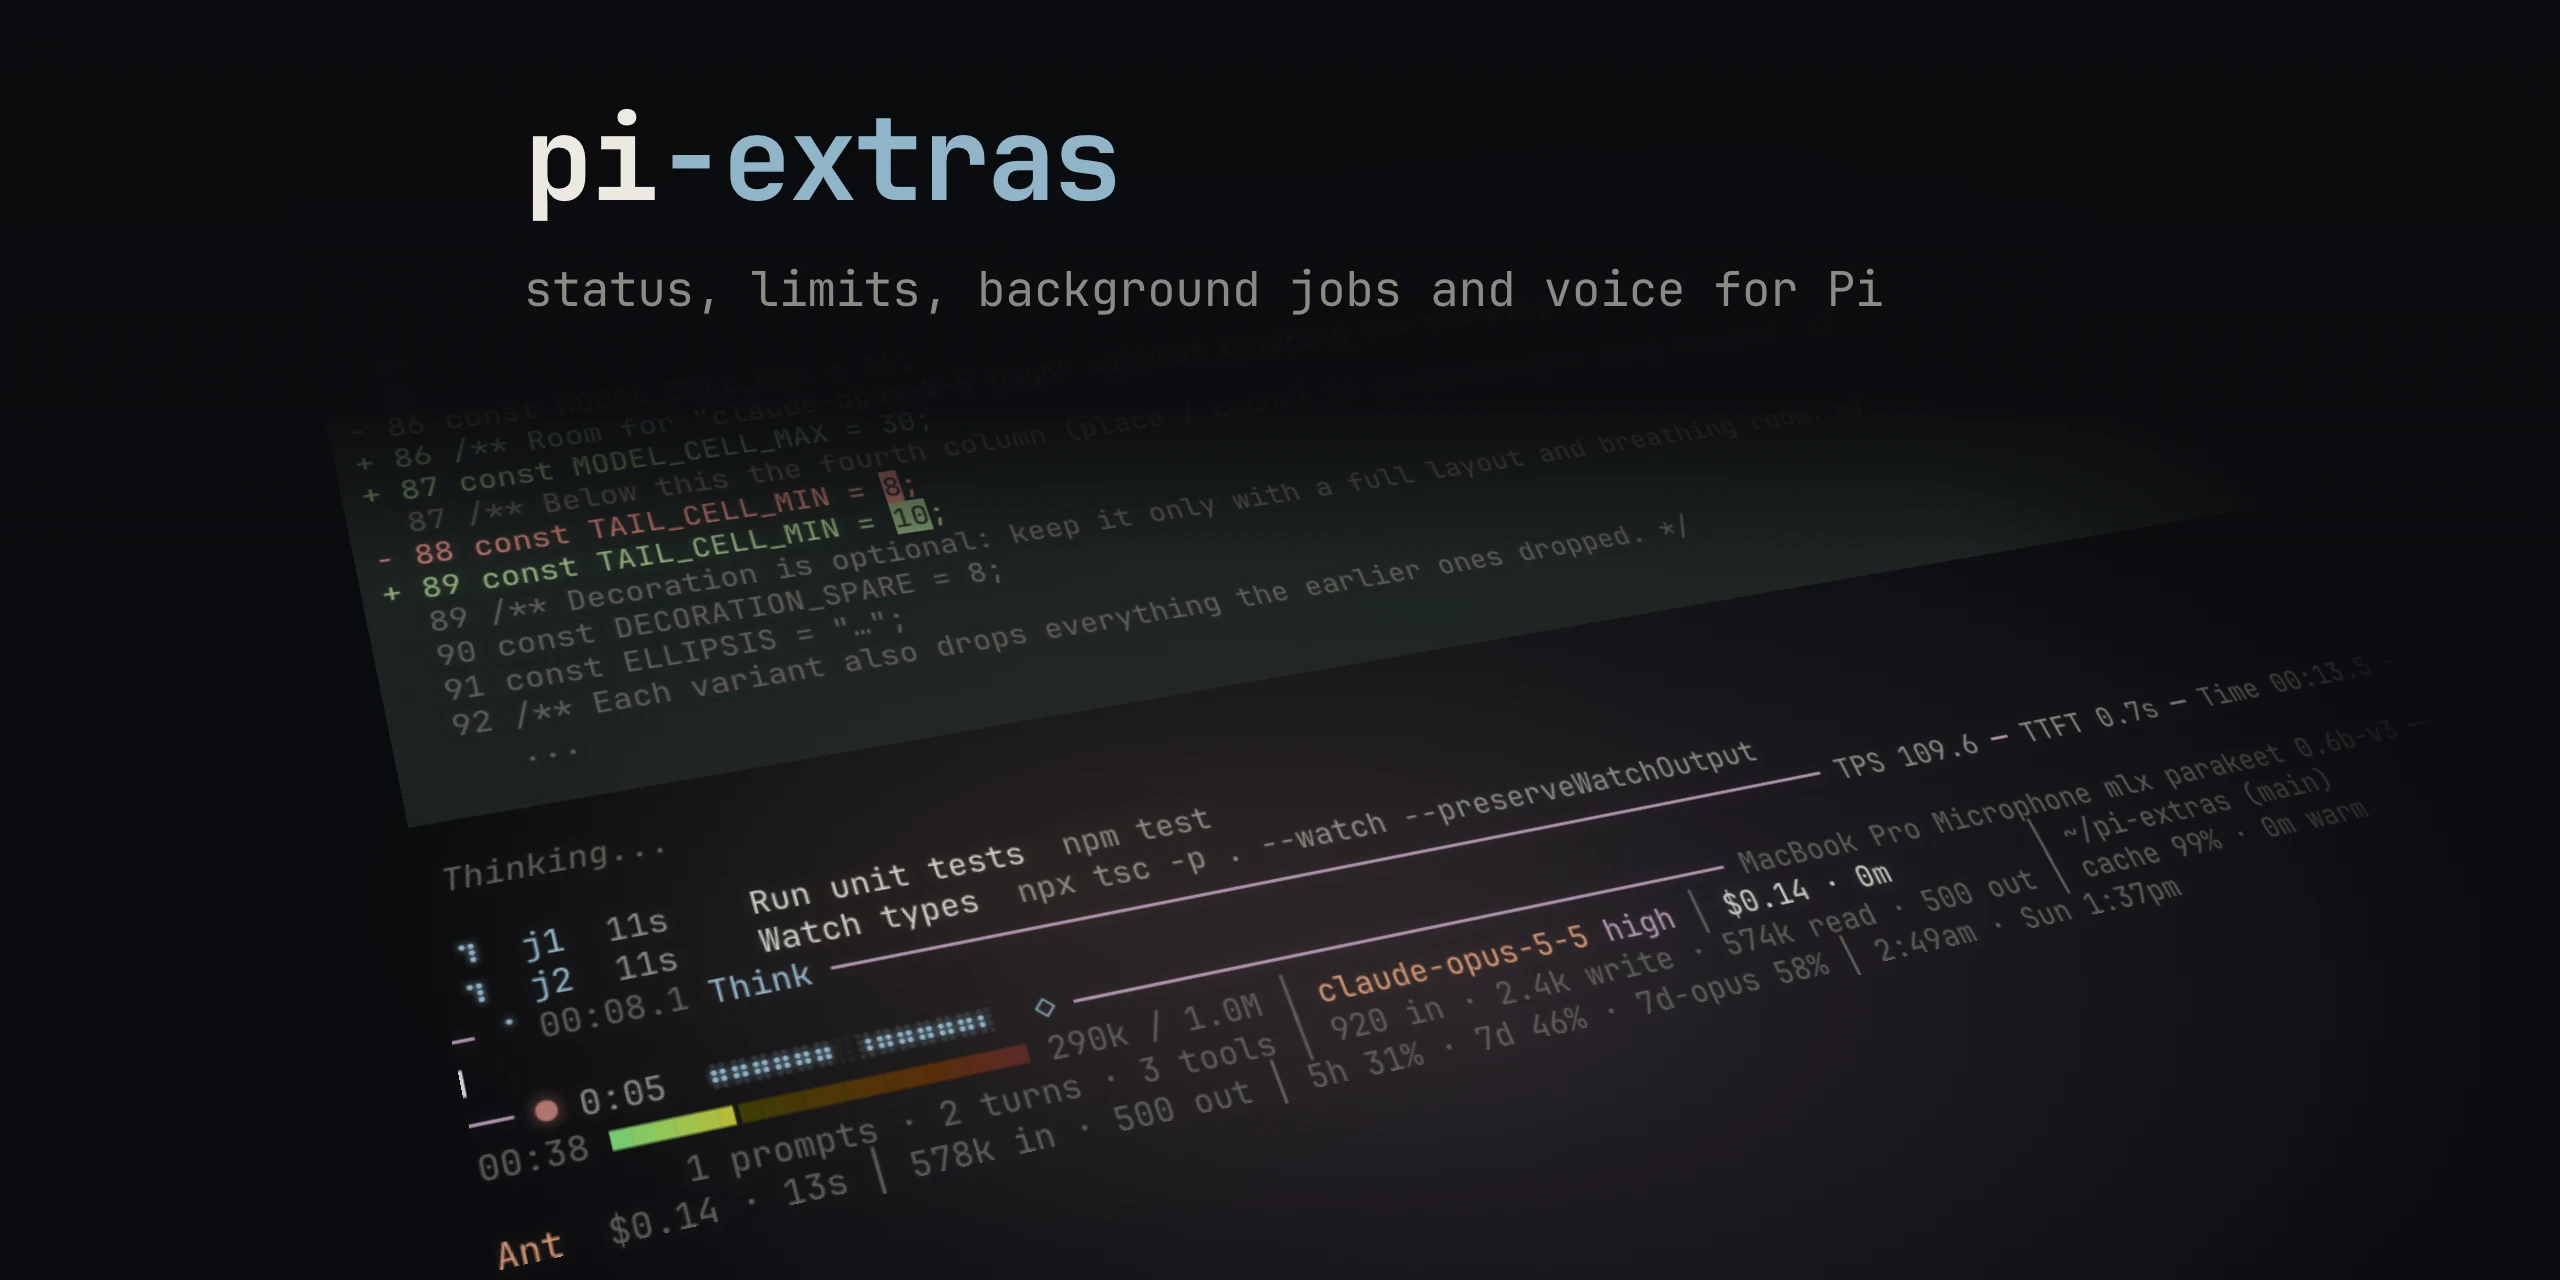
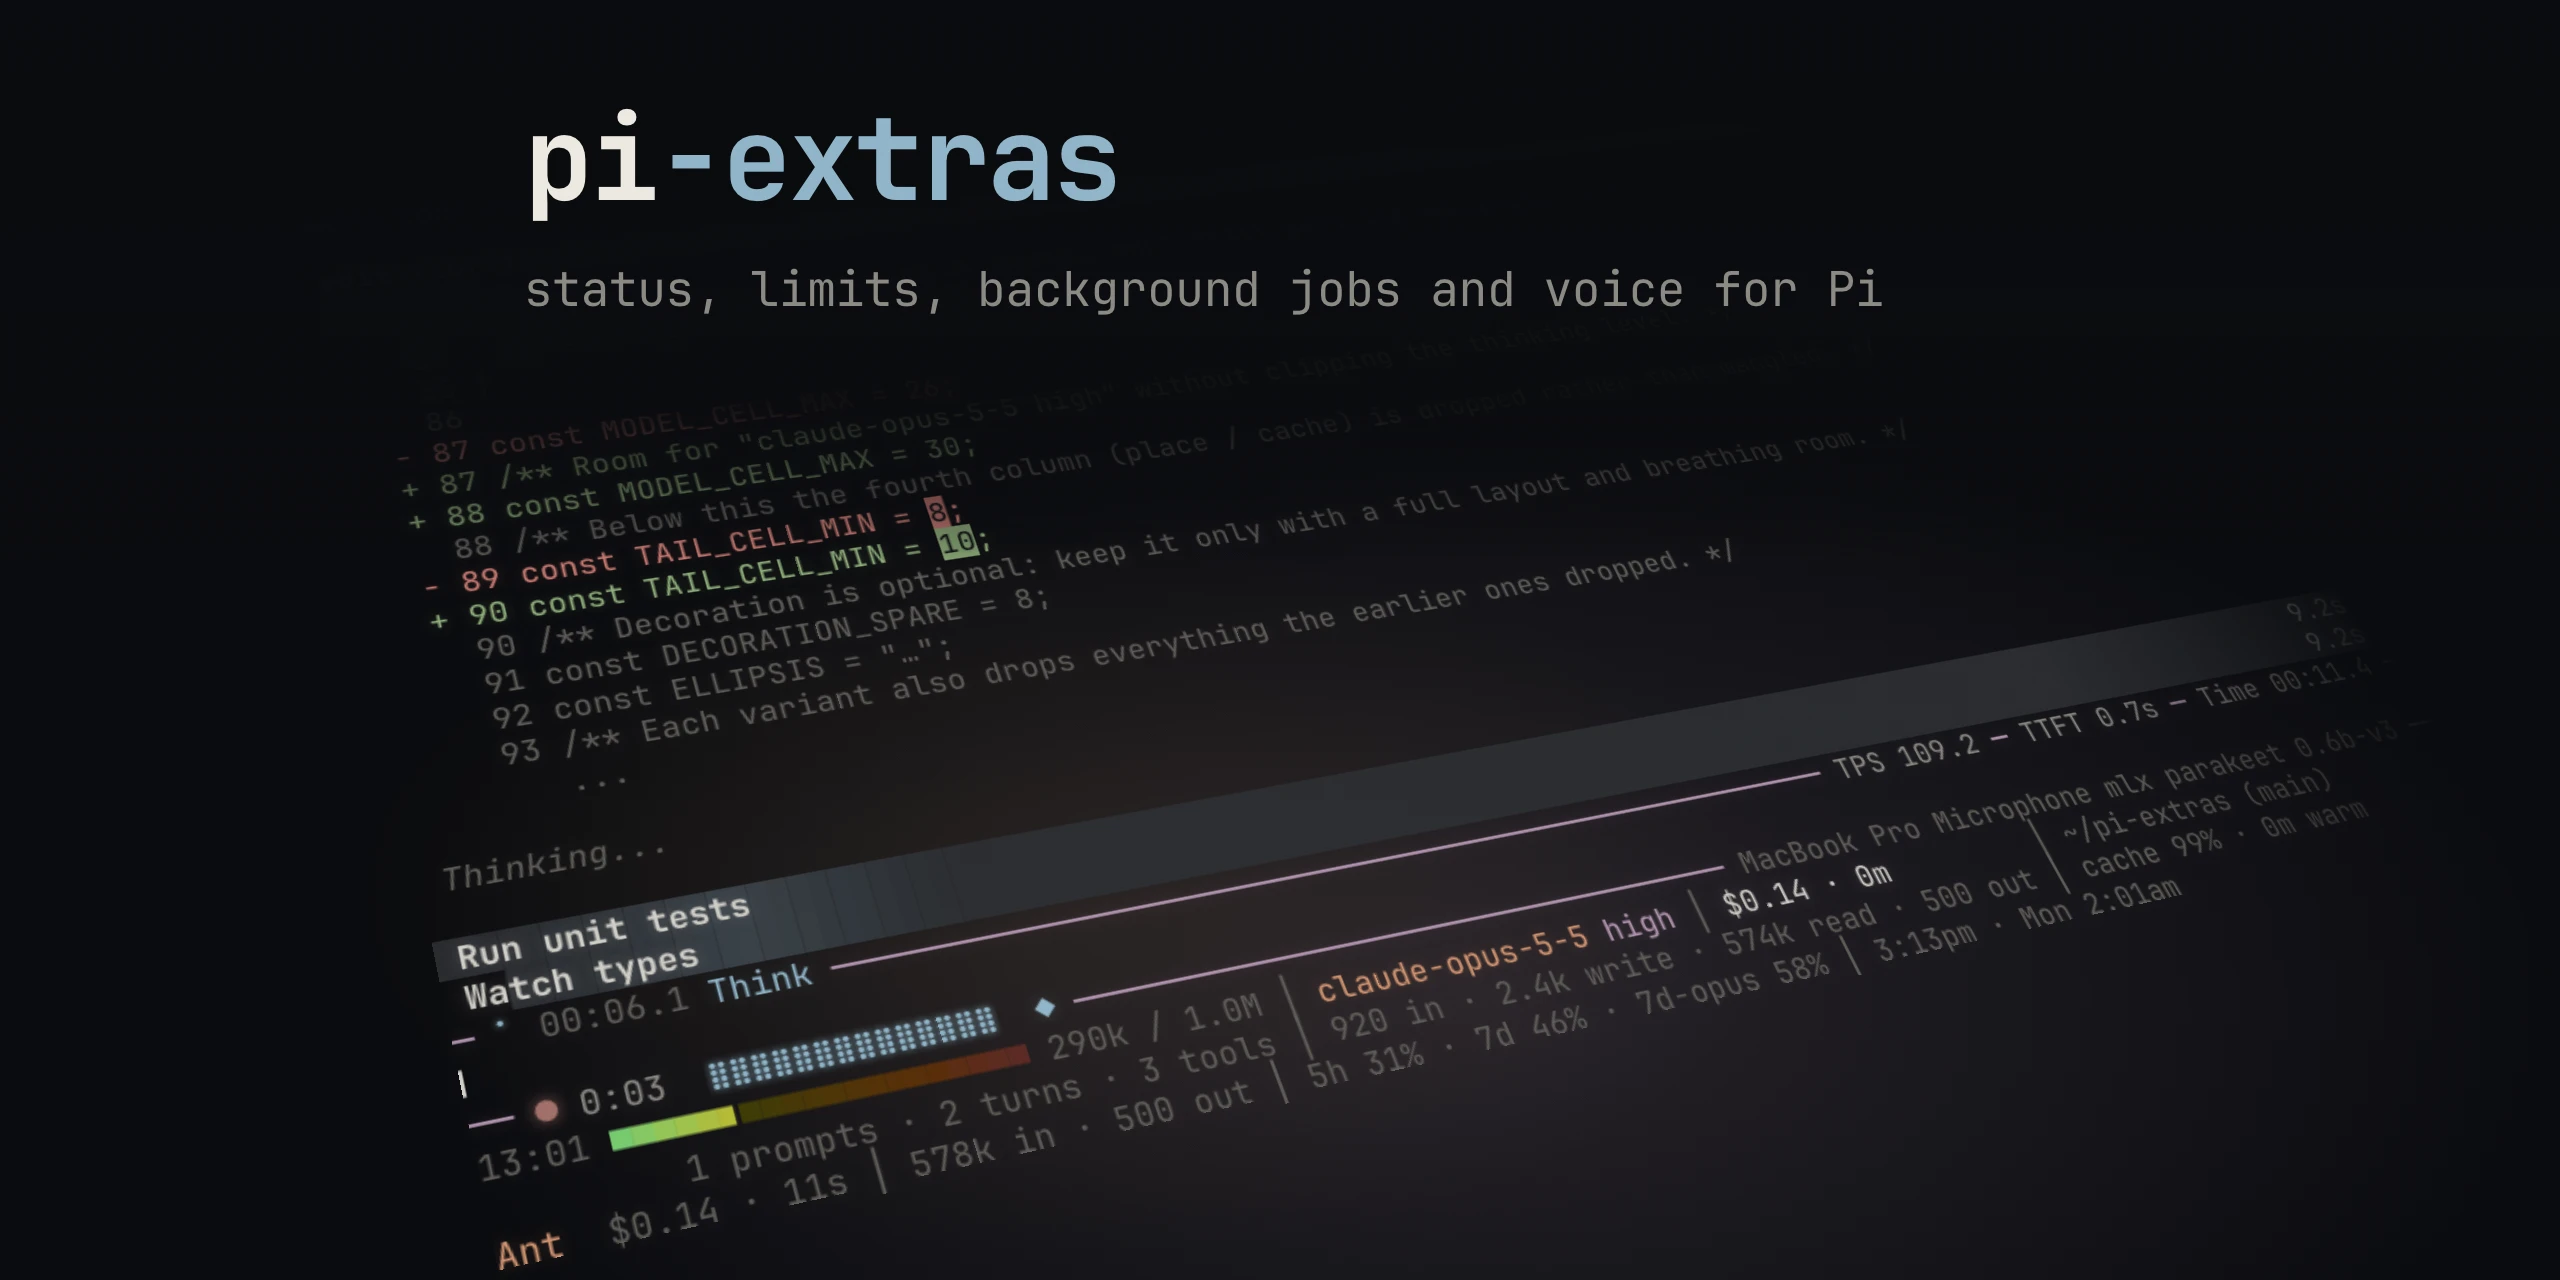
chore: release 0.6.0
The preview stage now runs on a 44-row terminal so the diff stays in view
above the job bands, pins the built-in mic so a personal headset name never
lands in the image, marks the release notes as seen, and shows main in the
footer. The frame picker finds running jobs by their widget bands.

diff --git a/scripts/preview/hero.js b/scripts/preview/hero.js
@@ -5,12 +5,12 @@
 (() => {
 	const PANEL_BG = "#212823"; // Pi's tool-result panel
 	const CURSOR = "#cfcdc6";
-	const METER_ROW = 52;
-	const WIDGET_ROW = 47; // rows above this carry Pi's scrollbar in the last column
+	const METER_ROW = 40;
+	const WIDGET_ROW = 35; // rows above this carry Pi's scrollbar in the last column
 
-	// Tuned against the 112x56 staged frame; any value can be overridden from the query string while adjusting.
+	// Tuned against the 112x44 staged frame; any value can be overridden from the query string while adjusting.
 	const LAYOUT = {
-		r0: 24, cw: 11.5, ch: 24, left: 250, top: -128, rx: 36, ry: 12, rz: -10, persp: 1400, po: "40% 40%",
+		r0: 12, cw: 11.5, ch: 24, left: 250, top: -128, rx: 36, ry: 12, rz: -10, persp: 1400, po: "40% 40%",
 		far: "18%", solid: "45%", fadeRight: "20%", tx: 262, ty: 50, size: 58, band: 280, bandSolid: "72%",
 	};
 

diff --git a/CHANGELOG.md b/CHANGELOG.md
@@ -2,6 +2,46 @@
 
 Versioning rules are in [CONTRIBUTING.md](CONTRIBUTING.md#versioning).
 
+## 0.6.0 - 2026-09-25
+
+### Changed
+
+- Tool Display is redesigned. Each tool call is now one colored header band
+  instead of a box: green when it worked, red when it failed, amber when it
+  timed out, gray when it was stopped. Failures are named in words on the right
+  (`exit 1`, `timed out`), next to the time. While a command runs, its band
+  fills toward the timeout and warms as the timeout gets close; without a
+  timeout it sweeps. Times of 10s or more are drawn in a warmer color.
+- The `boxed` and `compact` densities are gone, along with the ✓ and ✗ marks.
+  `/tool-display` now has `on|off`, `chains on|off` and `motion full|reduced`.
+  A saved density setting is ignored.
+- Shell Jobs are named after their titles: a job titled "Run unit tests" is
+  `run-unit-tests`, not `j1`, and the model is asked to call jobs by their
+  titles. Old `j1` ids from a resumed session still work. Job rows, completions,
+  the widget above the editor and the job popup use the same bands. A running
+  job's transcript row stays still, and its widget band is the one that moves.
+  A completion is one line until you click it, and a job stopped with
+  `shell_job kill` reads `stopped` in gray rather than as a failure.
+
+### Added
+
+- Click any tool row to open a popup with the whole call: the full command,
+  all its output, and, for a chained command, each step. Esc or `q` closes it.
+  ctrl+o still expands rows in place.
+- Chained bash commands (`a && b || c`) are shown step by step, each with its
+  own status and time, so you can see which step failed and which never ran. A
+  leading `cd` is shown as the location. To time the steps, Tool Display adds
+  marker lines around each step and removes them from the output before the
+  model sees it; the command the model wrote and the output it reads are
+  unchanged. Commands it can't split safely run as written.
+  `/tool-display chains off` turns this off. `docs/security.md` describes the
+  rewrite.
+- Click the tool count in the Status Plus footer to count each step a chained
+  command ran; click again for one per call. `/tool-display count steps|calls`
+  does the same where the terminal sends no clicks.
+- These notes. The first new session after an update shows what changed in
+  pi-extras, once per version. `/pi-extras changelog` shows them again.
+
 ## 0.5.0 - 2026-09-25
 
 ### Added
